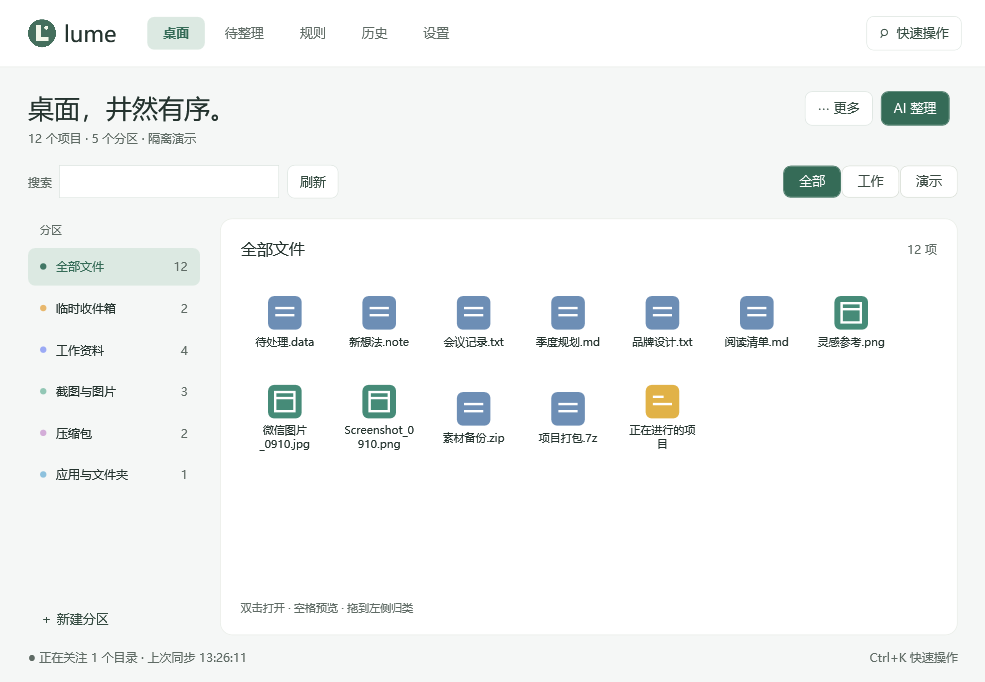
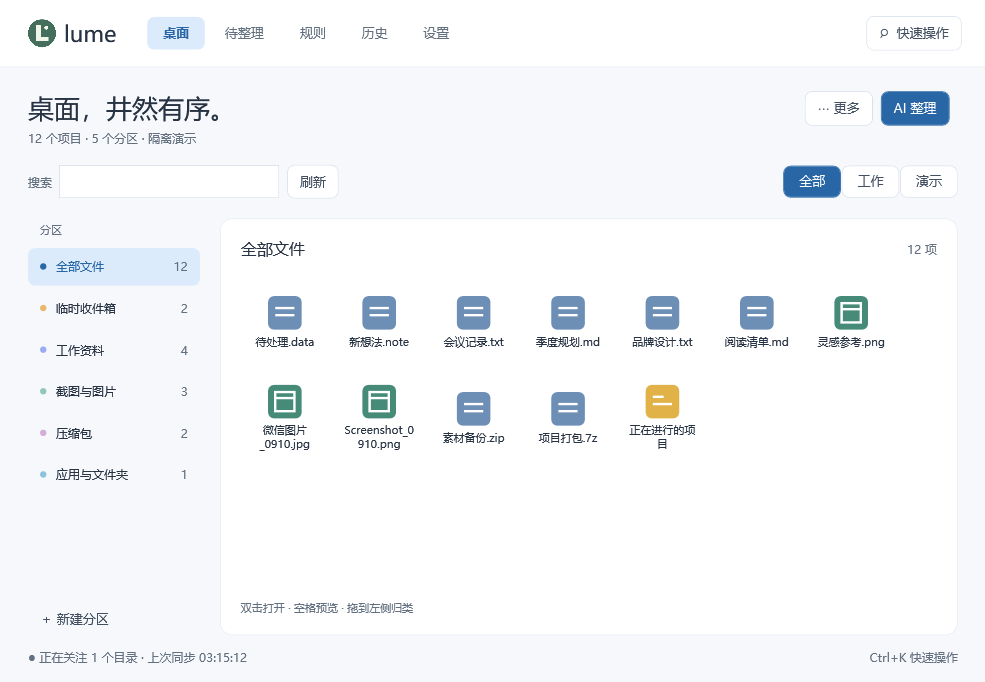
docs: refresh theme previews and verify release provenance

diff --git a/docs/复盘与优化-2026-10.md b/docs/复盘与优化-2026-10.md
@@ -17,6 +17,7 @@
 | 失踪文件的自动归类和学习样本长期留在状态中 | beta.5 提供默认 30 天的缺失等待、预览、完整备份、复检和清理；手动固定、排序、外部引用及无法确认路径保留。新格式保护重启和归档历史中的撤销，回退须恢复清理前备份 |
 | 每个分区重复遍历文件，搜索后重新创建本页所有控件 | 一次分组并复用排序，缓存限制为 25,000 项文件引用及对应排序；只复用当前页最多 80 个控件，筛选、元数据、主题和选择变化回归 |
 | 长测缺少逐次资源证据，旧结果可能被误读为成功 | 冻结已提交验收构建，记录内存/句柄/CPU/GC，验证心跳、进程、构建、哈希及有效时长；9 项状态脚本回归。当前进行中的运行不算通过 |
+| 开源主页截图过时，下载只提供哈希 | 更新 beta.5 管理窗口与四套主题的实渲染演示，标签工作流生成发布包来源证明并提供验证步骤；没有替代代码签名 |
 
 折叠卡片在 beta.2 已不会创建文件图块；本次只进一步提前跳过分页和签名计算，不能把此前误判当作新增大幅性能提升。
 
@@ -39,7 +40,7 @@ beta.5 的同机查询基准：1 万文件 / 60 分区重复搜索，41.17 ms / 
 | --- | --- | --- |
 | 高 | 真实桌面稳定性验收 | 虚构桌面文件下验证 Explorer 重启、休眠、多屏插拔/混合缩放、正常/异常退出；运行完整 8 小时并保留最终结果和资源趋势 |
 | 中 | 扩展真实规模测量 | 当前已验证 1 万文件的跨分区查询及 1,000 项事件/控件复用；继续检查大量重叠映射、命令面板和更大目录。实际键盘焦点与读屏仍需人工验收 |
-| 中 | 开源使用体验 | 补当前主题截图、故障流程、键盘/读屏检查，以及新用户从下载到首次整理的实机记录 |
+| 中 | 开源使用体验 | 当前主题截图和下载校验已补；继续检查键盘/读屏，以及新用户从下载到首次整理的实机记录 |
 | 后续 | 签名与更多平台 | 明确证书成本、发布密钥管理、ARM64 / 更多系统的实机验证；当前不宣称已签名或已支持 |
 
 不因本次计算提速就取消健康兜底或宣布稳定版本。手动清理旧包前，应核对运行路径、启动项、菜单注册和回退需求。

diff --git a/docs/验证下载.md b/docs/验证下载.md
@@ -1,0 +1,28 @@
+# 验证下载
+
+从本项目的 GitHub Releases 获取完整包或精简包及同名 `.sha256`。beta.5 起，标签发布工作流在 Windows 验收和打包通过后，为下载的两个 ZIP 生成 GitHub/Sigstore 构建来源证明，再发布。
+
+## SHA-256
+
+在下载目录用 PowerShell 检查：
+
+```powershell
+Get-FileHash -LiteralPath .\Lume-0.2.0-beta.5-win-x64.zip -Algorithm SHA256
+Get-Content -LiteralPath .\Lume-0.2.0-beta.5-win-x64.zip.sha256
+```
+
+哈希应完全相同。精简包使用其同名校验文件。
+
+## 发布来源
+
+已安装 GitHub CLI 时，检查发布包是否由本项目的指定标签工作流产生：
+
+```powershell
+gh attestation verify .\Lume-0.2.0-beta.5-win-x64.zip --repo 963072676/Lume --signer-workflow 963072676/Lume/.github/workflows/ci.yml --source-ref refs/tags/v0.2.0-beta.5 --deny-self-hosted-runners
+```
+
+来源证明绑定 ZIP 的哈希、仓库、源码引用和工作流。请检查验证结果中的源码提交、标签和工作流是否对应目标版本。若缺失证明或验证失败，不应宣称验证通过。更详细的机制与命令见 [GitHub 官方说明](https://docs.github.com/en/actions/how-tos/secure-your-work/use-artifact-attestations/use-artifact-attestations)和 [CLI 文档](https://cli.github.com/manual/gh_attestation_verify)。
+
+本地自建便携包有自己的哈希和 `build-info.json`，不会拥有 GitHub 工作流对另一份 ZIP 生成的证明。即使源码提交相同，打包时间和构建环境也可能使 ZIP 哈希不同。
+
+来源证明用于检查下载包和构建来源，不替代 Windows Authenticode 代码签名，不消除 SmartScreen 提示，也不代表所有运行场景已通过验收。当前程序尚未代码签名；支持范围见随包《支持与已知问题.md》。

diff --git a/README.md b/README.md
@@ -22,7 +22,9 @@
 适用于 Windows 10 2004 及以上、Windows 11，x64。解压后运行 `Lume.exe`，保留同目录的 DLL 和 `shell-extension.txt`。
 程序默认显示桌面分区并驻留托盘，双击托盘图标打开管理窗口；关闭窗口继续运行，托盘退出恢复 Windows 原桌面。请保留 `Lume.Guard.exe`，它负责异常退出后的桌面恢复。
 
-预览版的回收站实物清空、真实休眠、多屏和 Explorer 重启验收尚未完成，环境边界及故障处理见[支持与已知问题](docs/支持与已知问题.md)。上方截图来自 0.1.0，不代表全部新主题。
+预览版的回收站实物清空、真实休眠、多屏和 Explorer 重启验收尚未完成，环境边界及故障处理见[支持与已知问题](docs/支持与已知问题.md)。上方截图来自 beta.5 的隔离演示，使用虚构文件；主题实渲染截图见[主题预览](docs/主题预览.md)。
+
+下载包附 SHA-256，beta.5 起的 GitHub 发布还提供来源证明；检查方法见[验证下载](docs/验证下载.md)。本地自建包与 GitHub 包的哈希可能不同。
 
 ## 可以做什么
 

diff --git a/docs/主题预览.md b/docs/主题预览.md
@@ -1,0 +1,15 @@
+# 主题预览
+
+以下截图来自 0.2.0-beta.5 的 Windows 11 WPF 实渲染验收，使用隔离演示数据，没有个人文件或路径。显示的是管理窗口的主题设置页；不代表所有壁纸、显示器和真实桌面玻璃效果。
+
+| 晴空蓝（默认） | 浅雾紫 |
+| --- | --- |
+| ![晴空蓝](images/theme-sky.png) | ![浅雾紫](images/theme-lavender.png) |
+
+| 暖杏茶 | 经典青绿 |
+| --- | --- |
+| ![暖杏茶](images/theme-apricot.png) | ![经典青绿](images/theme-sage.png) |
+
+从“设置 → 外观”选择主题，立即保存并更新已有共享画刷。分区标识色和底色深浅各自保留，主题不改变归类规则或文件位置。
+
+验收还检查主题切换保留设置控件、更新实际屏幕外分区底色及文字对比度；没有模拟鼠标悬停或操作用户桌面。不同缩放和读屏环境仍需实机检查。

diff --git a/docs/releases/0.2.0-beta.5.md b/docs/releases/0.2.0-beta.5.md
@@ -7,6 +7,7 @@
 - 同机 Release 合成数据，60 个分区重复搜索从约 41.17 ms / 14.75 MiB 临时托管分配降到 1.13 ms / 0.094 MiB；首次查询约 7.29 ms。这是受控搜索基准，不是进程总内存或全部机器的承诺。
 - 长测冻结构建、记录逐次内存/句柄/CPU/GC，核验心跳、进程身份、版本、哈希及有效运行时长。验收窗口不显示任务栏；显式非交互检查不模拟键鼠。
 - 新增 23 项核心回归、22 项清理窗口检查和 9 项长测状态脚本检查。完整自动检查与本地功能预览通过后发布。
+- GitHub 标签发布为两个 ZIP 生成构建来源证明，提供校验说明；这不替代 Windows 代码签名。
 
 ## 下载
 

diff --git a/CHANGELOG.md b/CHANGELOG.md
@@ -7,6 +7,7 @@
 - 大目录查询一次分组并复用排序，缓存限制目录引用数量；管理窗口仅复用当前页最多 80 个控件，文件元数据、主题、筛选与选择变化继续正确处理。
 - 长测增加逐次资源记录、心跳与构建身份检查；睡眠/停顿不累计为正常观察时长，非交互窗口不显示任务栏。
 - 增加 23 项核心回归、22 项清理窗口检查和 9 项状态脚本检查。完整 8 小时及 Explorer、休眠、多屏实机结论仍未完成。
+- 更新四套主题的实渲染演示截图，为 GitHub 发布包增加可验证的构建来源证明与下载校验说明。
 
 ## 0.2.0-beta.4 — 2026-10-06
 
